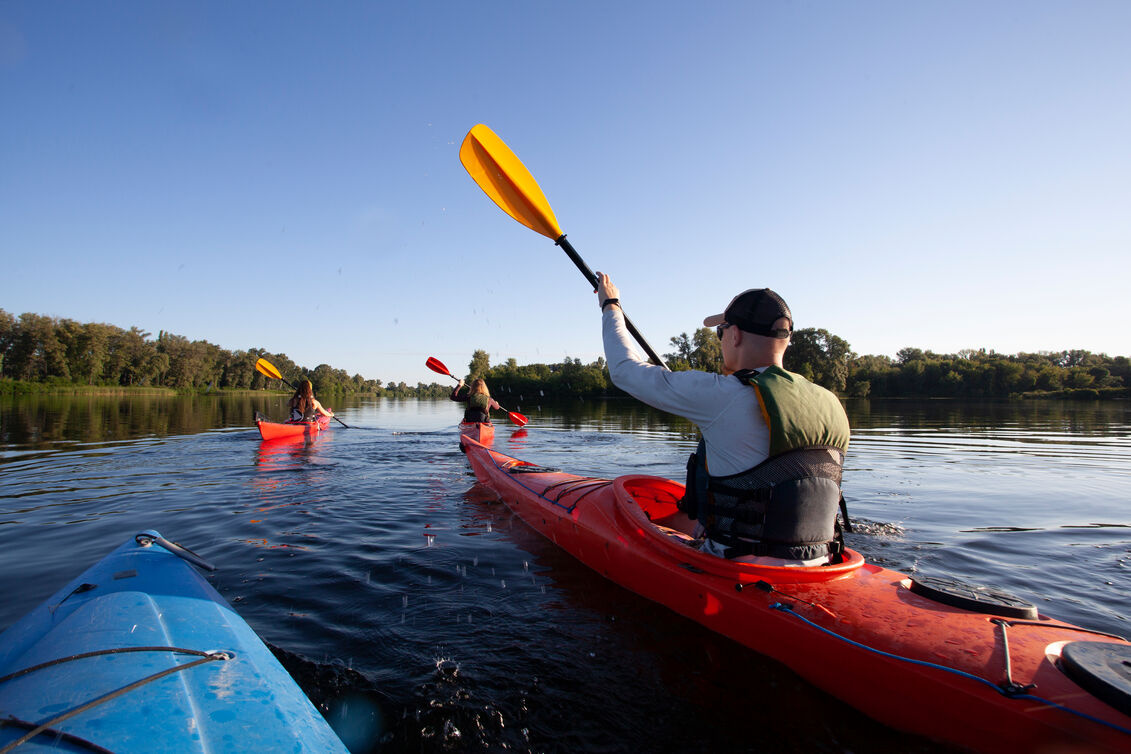
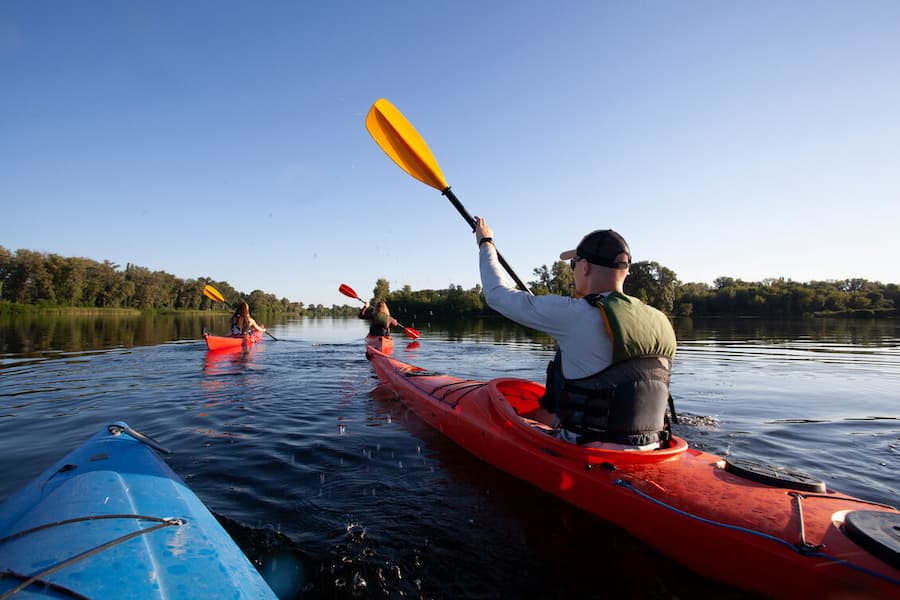
changed fonts and image size
I downsized the image to fit better in the windows

diff --git a/css/style.css b/css/style.css
@@ -5,12 +5,20 @@
     --bg-color: #ffffff;
     --bg-alt: #CAE6F8;
     --text-color: #003239;
-    --font-heading: "Poppins", Arial, Helvetica, sans-serif;
+    --font-heading: "Poppins", "Poppins Fallback", Arial, Helvetica, sans-serif;
     --font-body: "Nunito", Arial, Helvetica, sans-serif;
     --muted: #4A6B6E;
     --shadow: 0 20px 20px rgba(195, 91, 1, 0.45);
     --line: #cbd6cf;
     --radius: 16px;
+}
+@font-face {
+    font-family: "Poppins Fallback";
+    src: local("Arial");
+    size-adjust: 112%;
+    ascent-override: 93%;
+    descent-override: 31%;
+    line-gap-override: 8%;
 }
 * { box-sizing: border-box; }
 html { scroll-behavior: smooth; }

diff --git a/index.html b/index.html
@@ -9,6 +9,7 @@
         <link rel="preconnect" href="https://fonts.googleapis.com">
         <link rel="preconnect" href="https://fonts.gstatic.com" crossorigin>
         <link rel="preload" as="image" href="images/paddlers.svg">
+        <script src="js/script.js" defer></script>
         <link href="https://fonts.googleapis.com/css2?family=Nunito:wght@300;400;600;700;800;900&family=Poppins:wght@600;700&display=swap" rel="stylesheet">
 </head>
 
